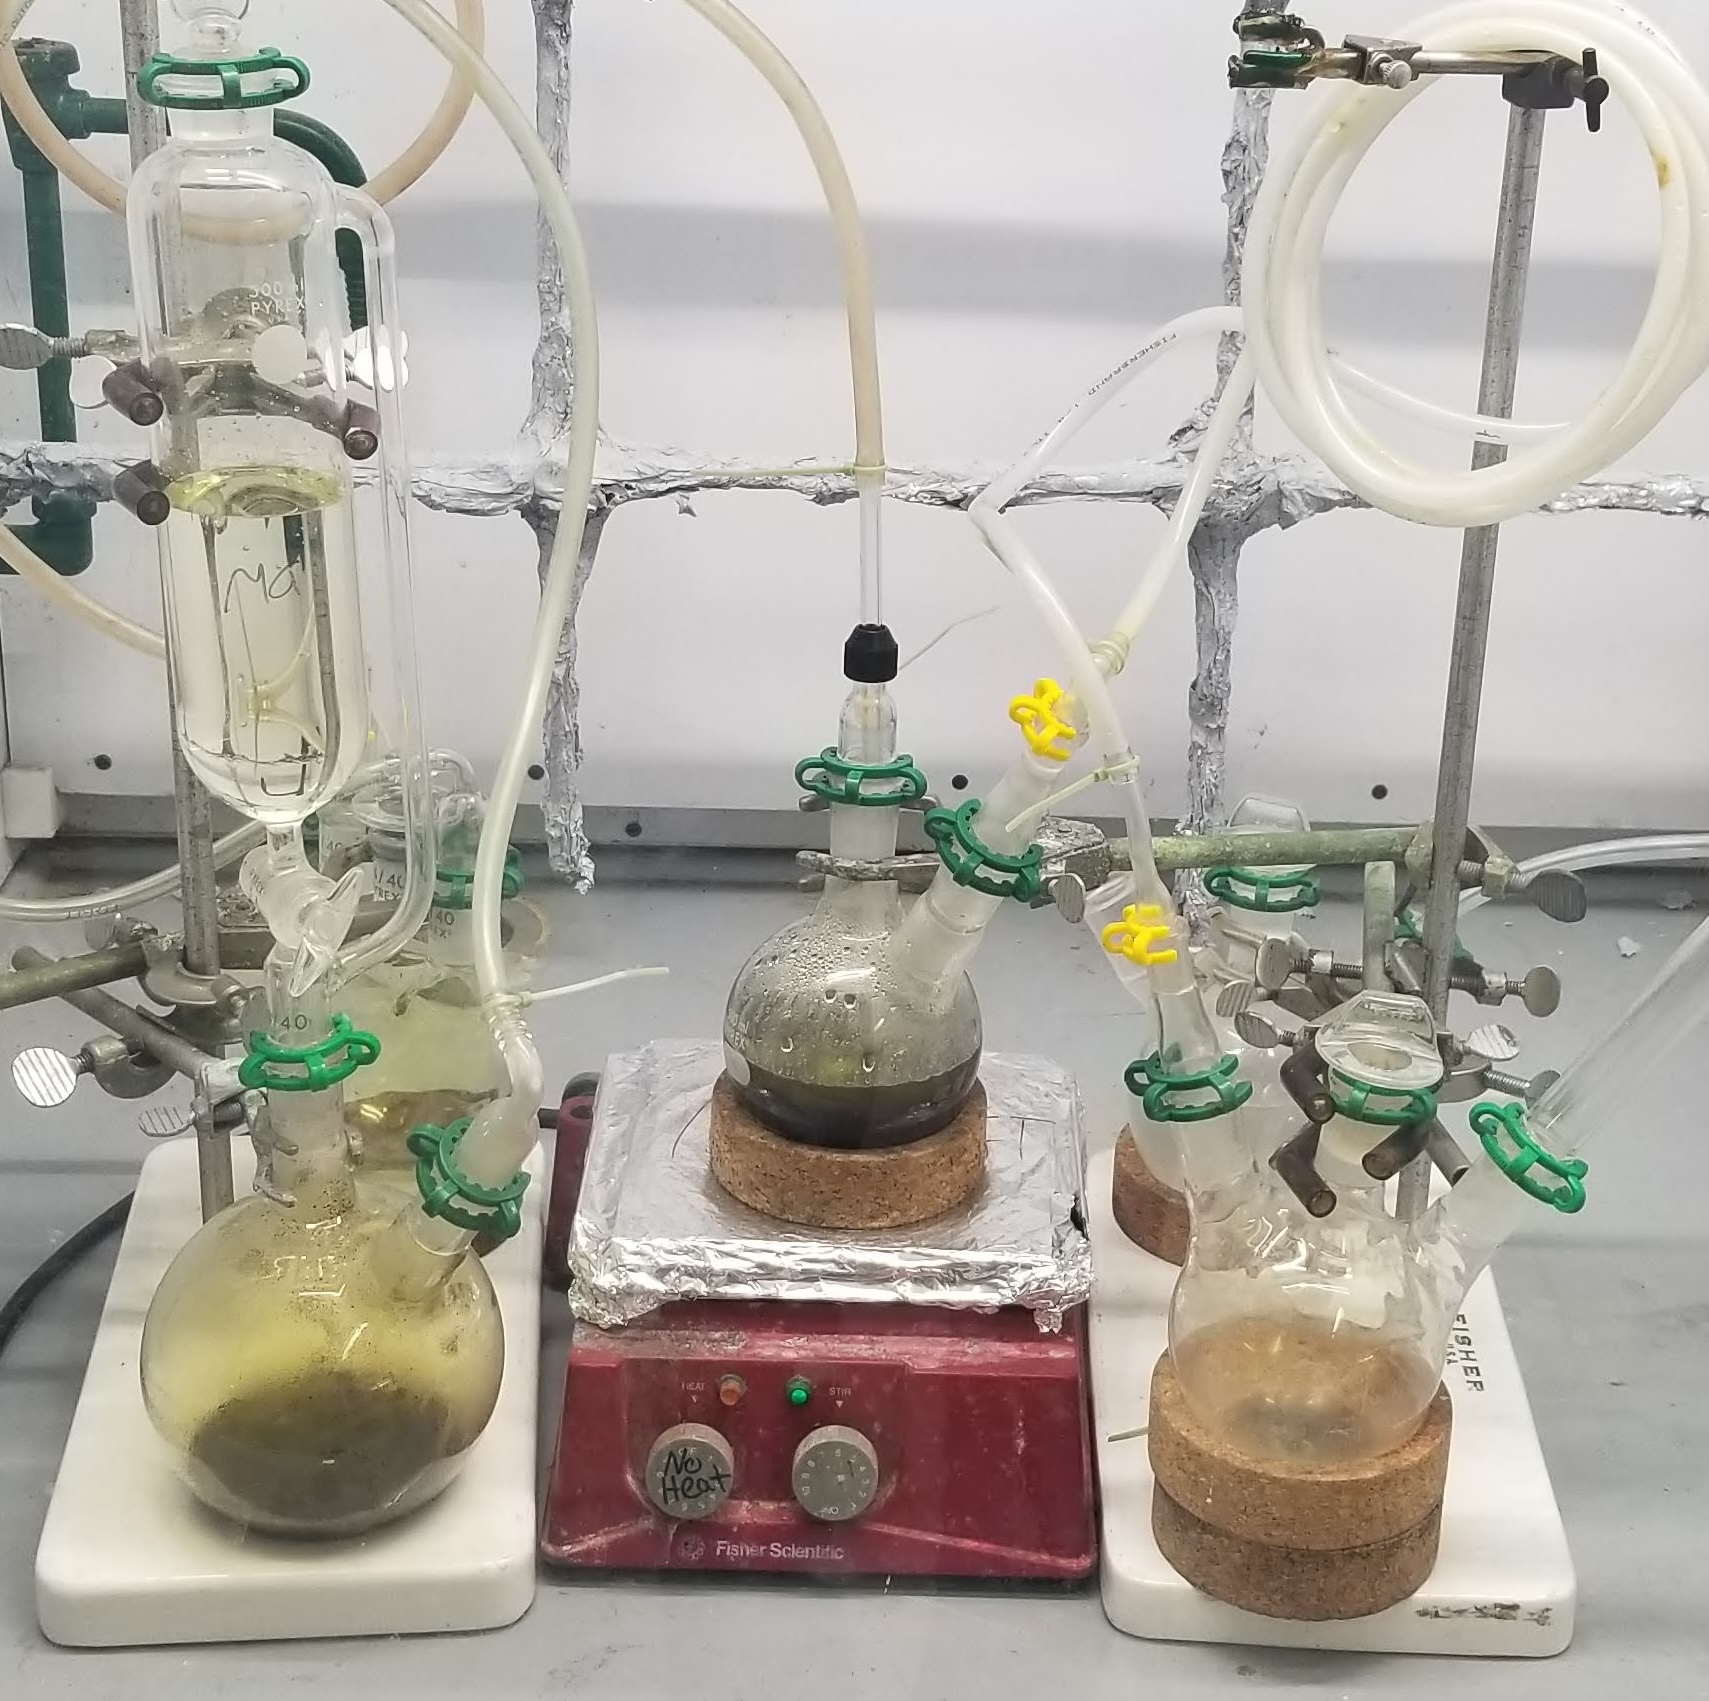
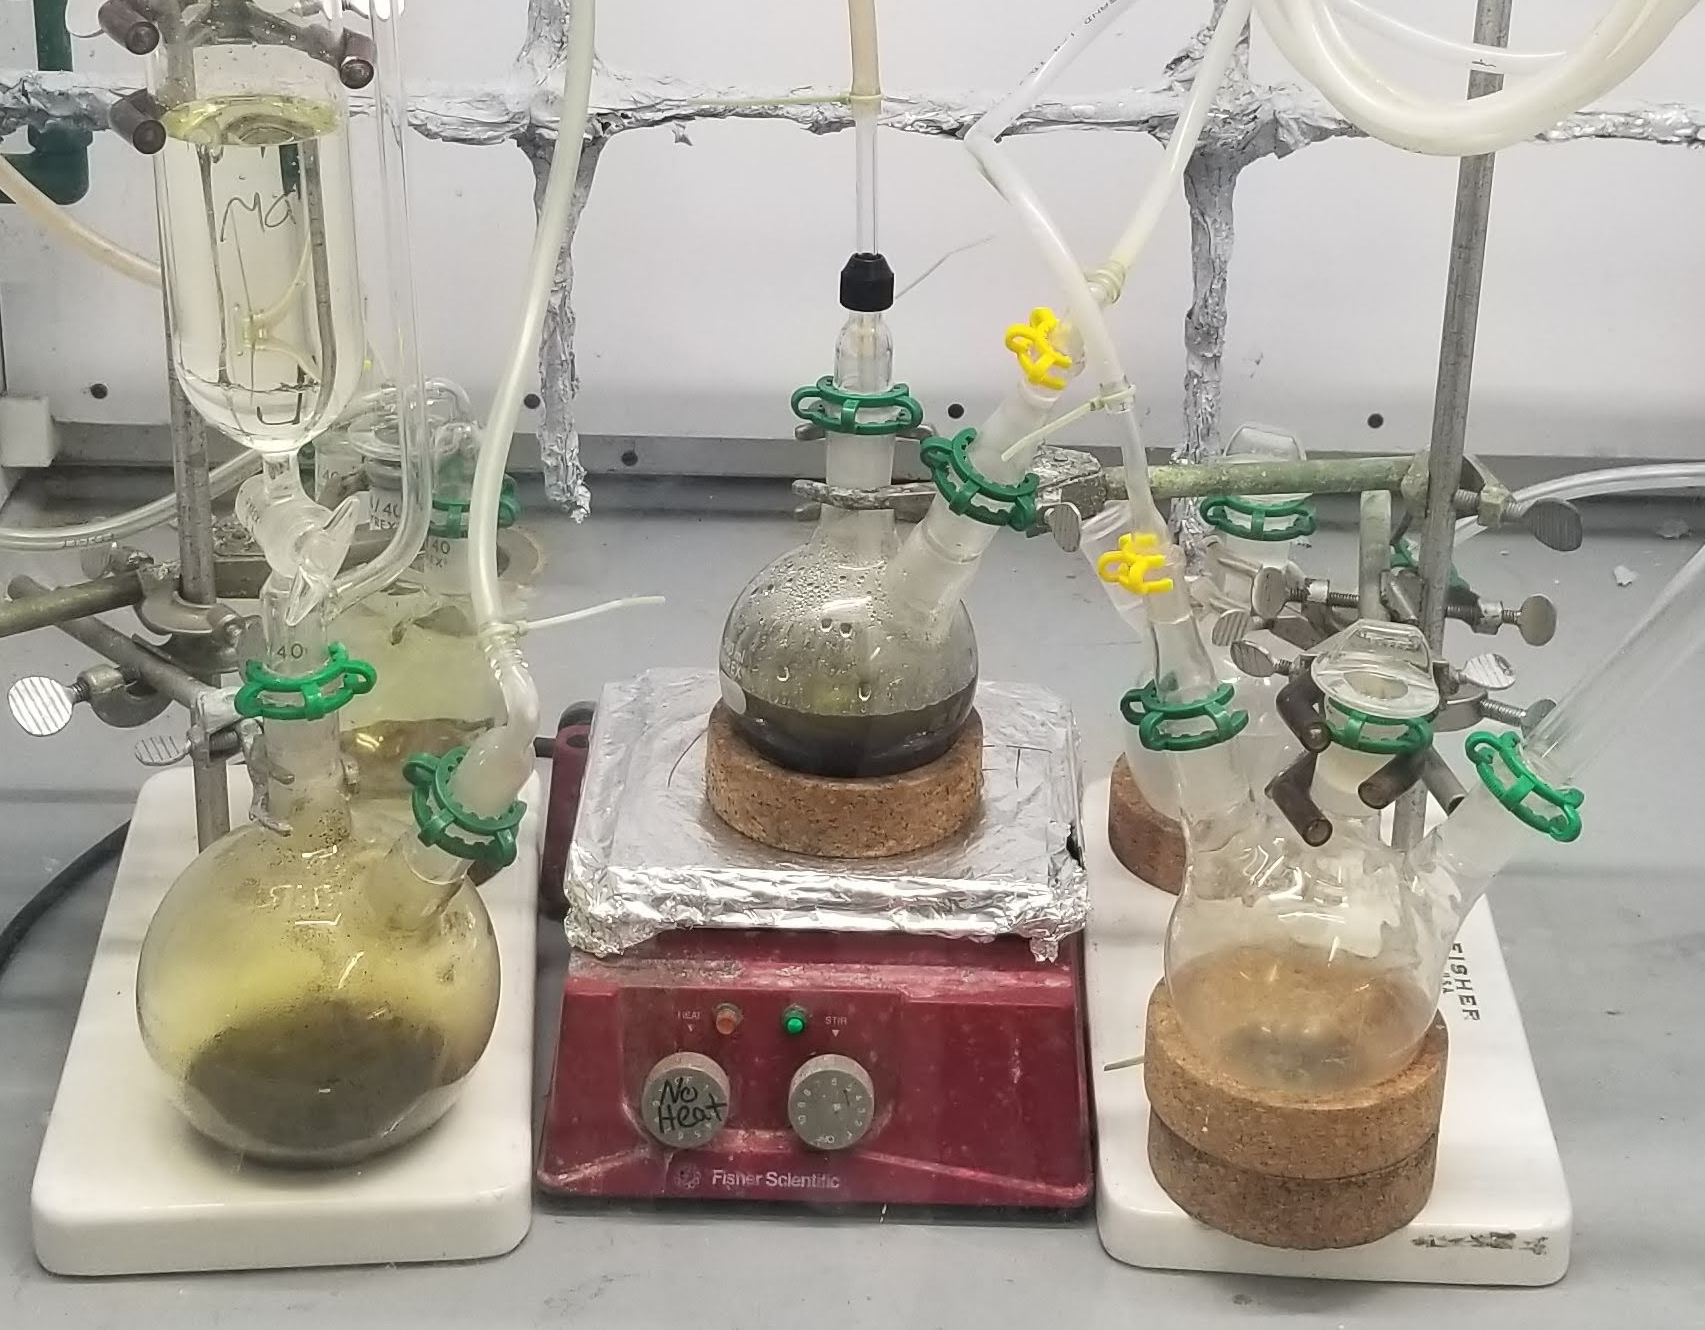
adjusted coding project

diff --git a/_projects/4_project.md b/_projects/4_project.md
@@ -1,33 +1,18 @@
 ---
 layout: page
-title: "Coding Apps and Tools"
+title: "Coding"
 description: "A few coding projects and tools I have made"
-img: assets/img/prof_pic.jpg
+img: assets/img/coding_image.png
 importance: 2
 category: Fun
 published: true
 ---
 
-## 🌐 GitHub Repository
+### Personal Website
 
-This website is built using the **al-folio** Jekyll theme, a beautiful and responsive academic portfolio template. The source code is available on GitHub:
-
-<div class="text-center mb-4">
-    <a href="https://github.com/alshedivat/al-folio" target="_blank" class="btn btn-primary btn-lg">
-        <i class="fab fa-github"></i> View al-folio on GitHub
-    </a>
-</div>
-
-**Repository:** [alshedivat/al-folio](https://github.com/alshedivat/al-folio)  
-**Stars:** 8.5k+ ⭐  
-**Forks:** 12k+ 🍴  
-**License:** MIT
-
-## 💻 Technologies & Languages Used
+This website is built using the **al-folio** Jekyll theme, which I have modified and personallized. The source code is available on [GitHub](https://github.com/atillavarga/atillavarga.github.io) 
 
 This website leverages a modern web development stack:
-
-### Core Technologies
 - **Jekyll** - Static site generator that transforms Markdown and Liquid templates into HTML
 - **GitHub Pages** - Free hosting and deployment platform
 - **GitHub Actions** - Automated testing and deployment workflows
@@ -46,34 +31,19 @@ This website leverages a modern web development stack:
 - **MathJax** - Mathematical notation rendering
 - **Academicons** - Academic and research-related icons
 
-## ✨ Cool Features
 
-### 🎨 Dark Mode Support
-The website automatically adapts to your system's dark/light mode preference, with smooth transitions and optimized color schemes for both themes.
+## Cool Features
 
-### 📱 Responsive Design
-Built with Bootstrap's mobile-first approach, the site looks great on all devices - from mobile phones to wide desktop screens.
+### Dark Mode Support
+The website automatically adapts to your system's dark/light mode preference, with smooth transitions and optimized color schemes for both themes. Even the chemical structures (which normally have black bond lines) are automatically adjusted to be visible in both modes - no two image assests used.
 
-### 🔬 Academic Integration
-Seamless integration with academic tools including:
-- **ORCID** and **Google Scholar** profiles
-- **BibTeX** bibliography management
-- **PDF** document embedding and downloads
-- **Research paper** showcases with metadata
-
-### 🚀 Performance Optimized
+### Optimized Performance
 - **Static generation** ensures fast loading times
 - **CDN-delivered assets** for global performance
 - **Lazy loading** for images and content
 - **Minimal JavaScript** for optimal performance
 
-### 🎯 SEO Friendly
-- **Semantic HTML** structure for search engines
-- **Open Graph** and **Schema.org** metadata
-- **Sitemap** generation for better indexing
-- **RSS feeds** for content syndication
-
-## 🛠 Development Workflow
+## Development Workflow
 
 The site uses a modern development workflow:
 
@@ -82,15 +52,6 @@ The site uses a modern development workflow:
 3. **Automated Testing**: GitHub Actions run tests on every push
 4. **Continuous Deployment**: Automatic deployment to GitHub Pages
 
-## 📊 Site Statistics
-
-- **Pages Built**: 15+ pages including projects, blog posts, and academic content
-- **Projects Showcased**: 4 detailed project portfolios
-- **Blog Posts**: Technical articles and documentation
-- **Responsive Images**: Optimized for all screen sizes
-- **Internationalization**: Support for multiple languages
-
 ---
 
-*This website serves as both a professional portfolio and a demonstration of modern web development practices in an academic context.*
-
+Other coding projects to come!
